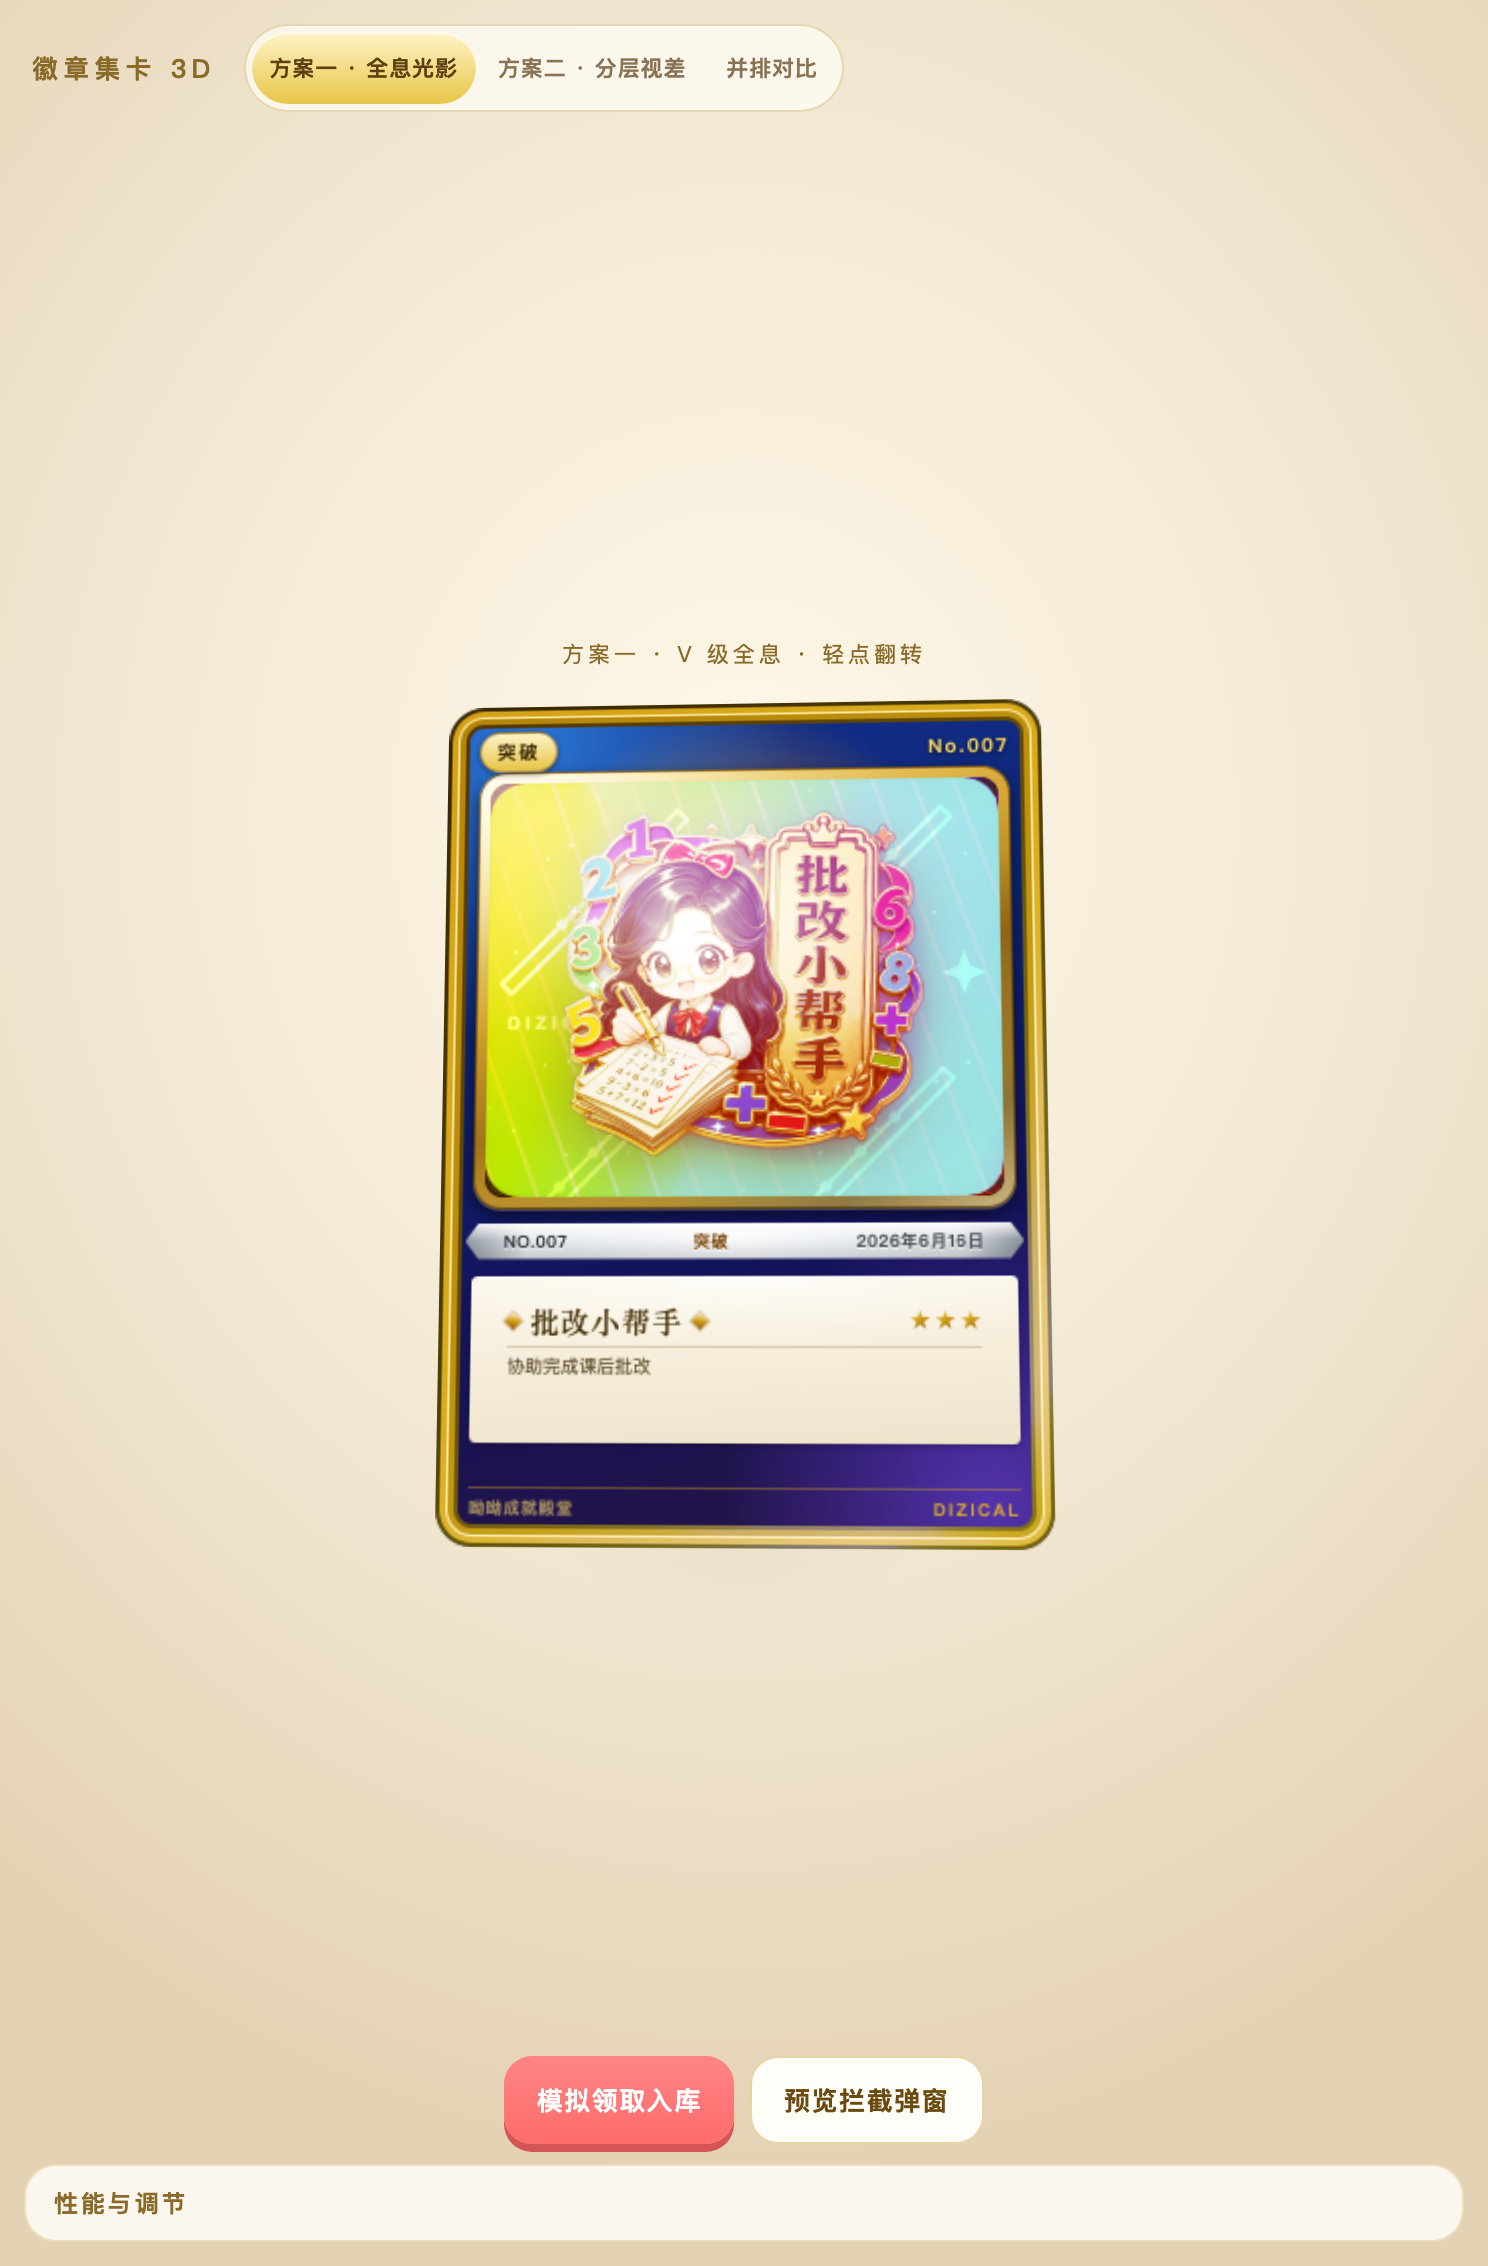
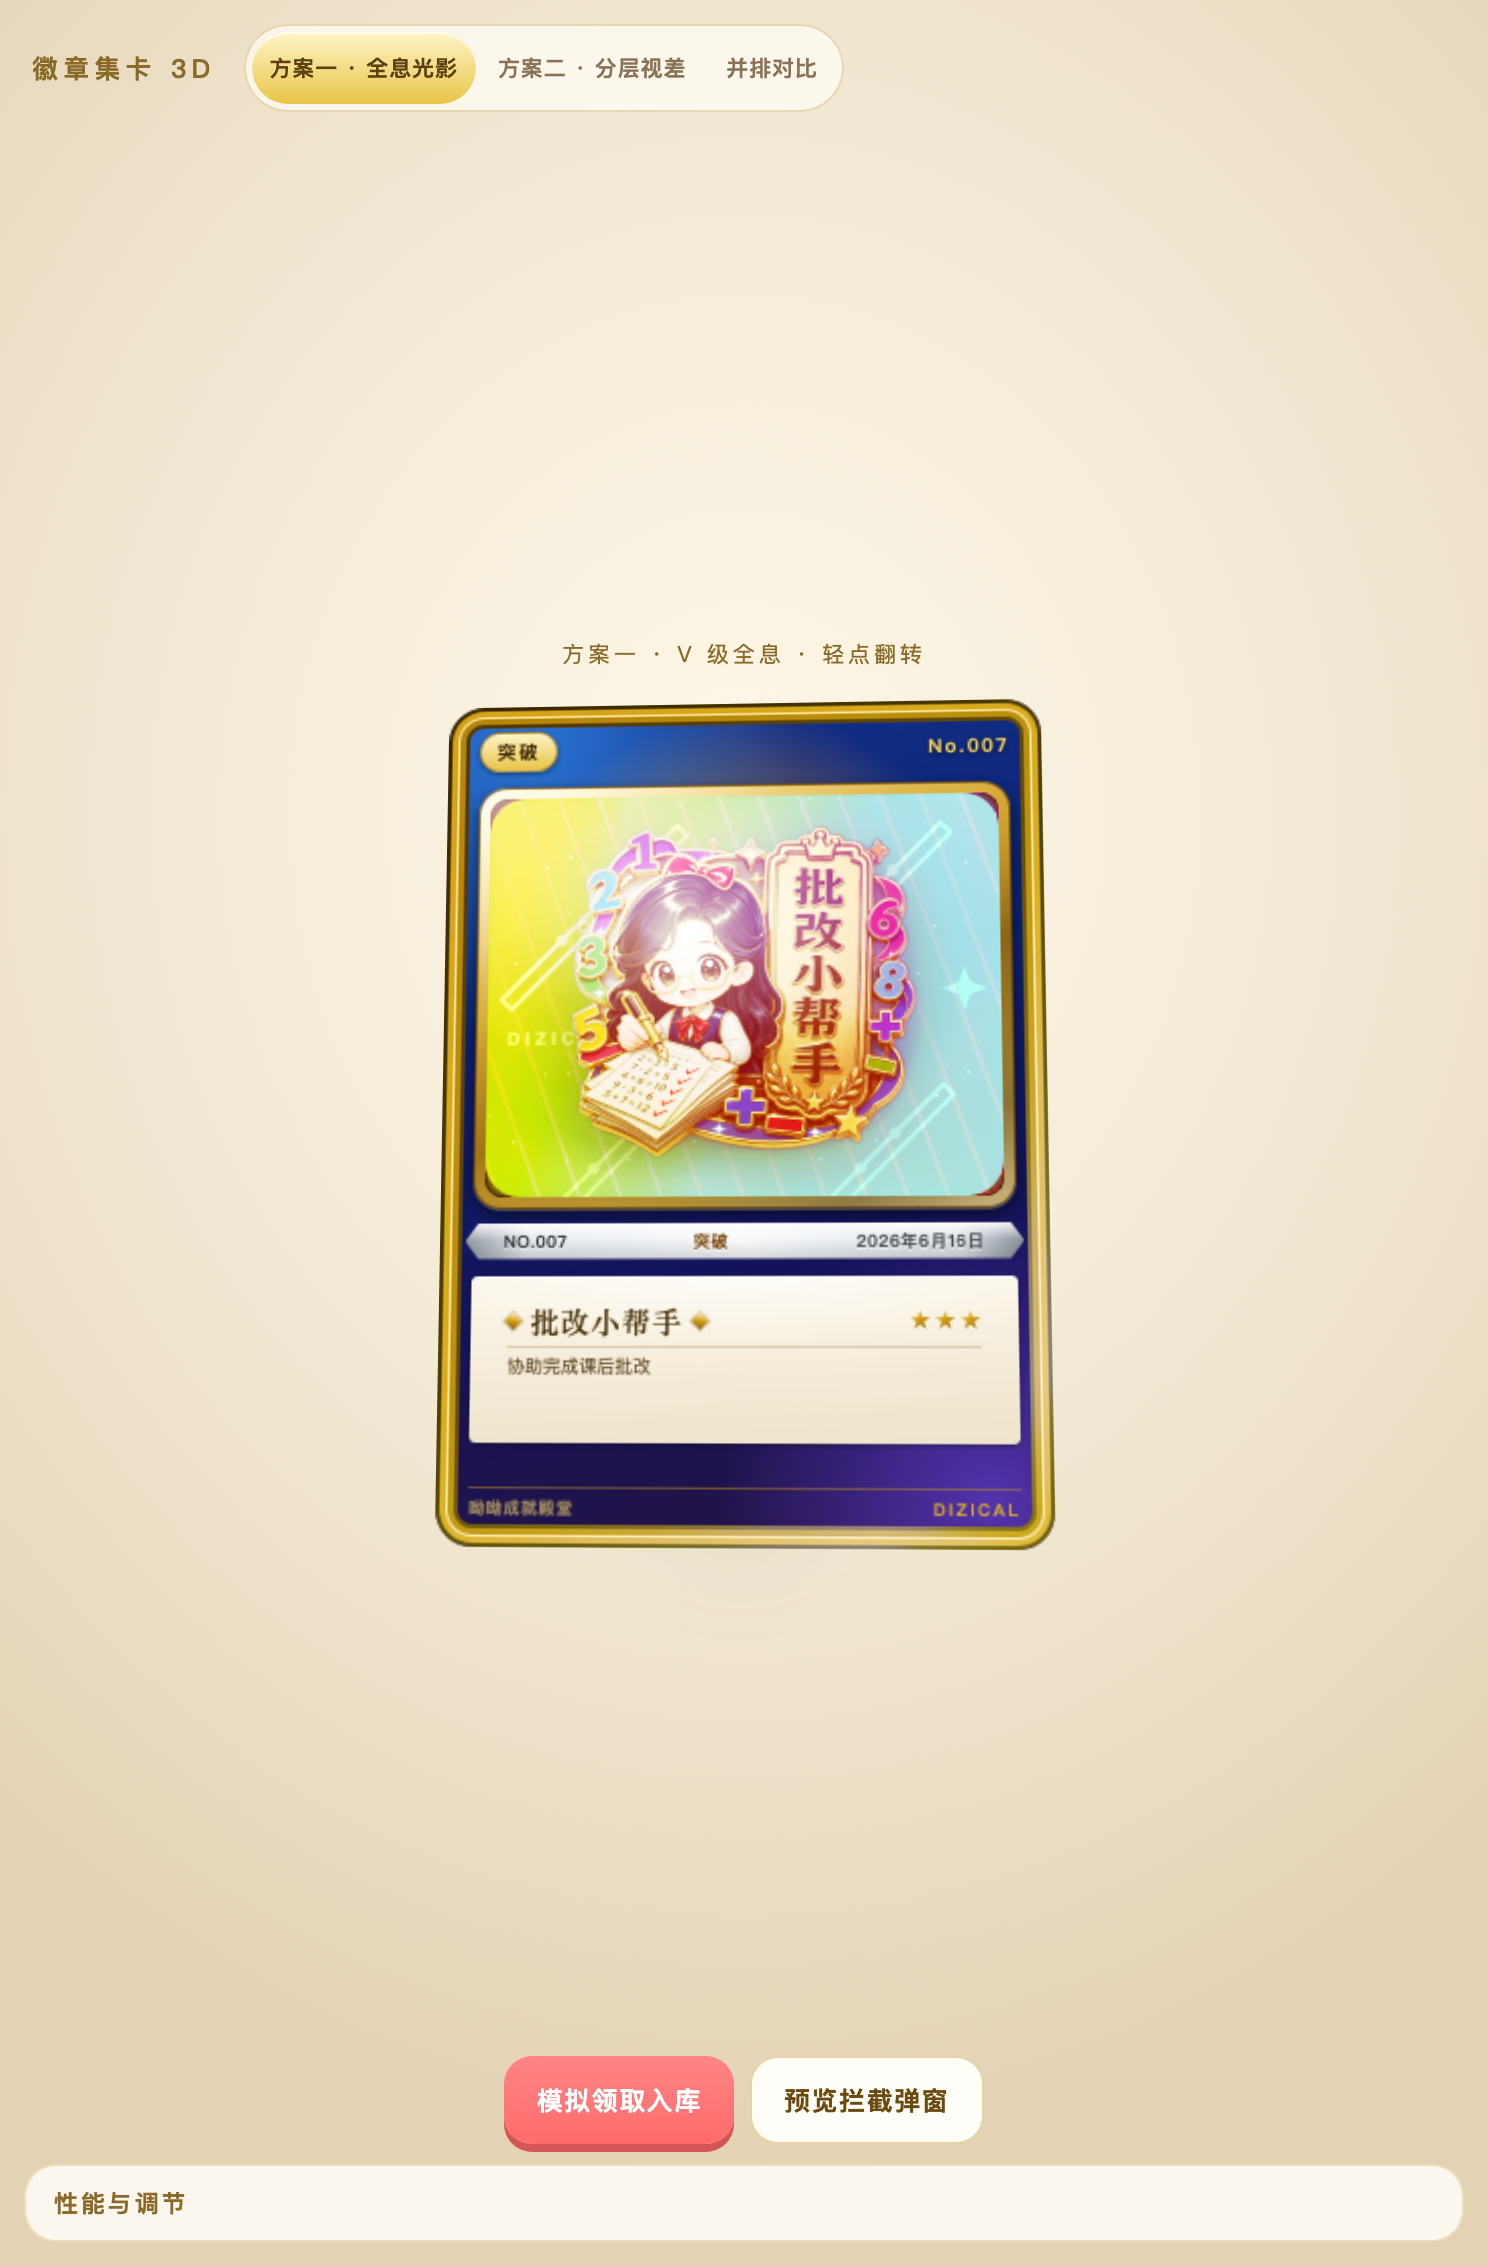
fix(badges): 光斑滑出金框不再压深色 + holo-head 与金框留 6px 间隙
dad 2026-09-12 反馈两条:
1) cursor 往下划出 ccg-art-frame 时背景镭射出现深色重叠
   根因: .ccg-foil-glare 是 overlay 径向渐变, 末端色标是深色;
   radial-gradient 椭圆之外的区域延续最后一个色标 → 光斑跑到框外后整片深色铺满窗口.
   修法: 末端色标回到透明 + --aw-x/--aw-y 钳制范围 -80..180 → -10..110.
   实测: 窗口亮度 186.7→101.5 (掉 46%) 变成 192.8→182.4 (仅 -5%), 色带均匀无暗斑.
2) .ccg-holo-head 与金框边框相碰
   实测 holo-head.bottom → art-frame.top = -2.2/-1.3/-1.4px (三端皆负).
   修法: --art-t 8%→9.9%, --art-h 53%→51.1% (框底仍 61% → 下方区块零位移).
   实测: 间隙 -2.2 → +6.1px (mac) / -1.3 → +6.7 (ipad 竖) / -1.4 → +6.0 (ipad 横).

Changed region(s): [[0.3091, 0.3398, 0.6801, 0.5252]]

diff --git a/src/kid_app/static/css/badge-ccg.css b/src/kid_app/static/css/badge-ccg.css
@@ -279,9 +279,12 @@
     hsla(0, 0%, 100%, 0.95) 0%,
     hsla(0, 0%, 100%, 0.62) 20%,
     hsla(0, 0%, 100%, 0.14) 46%,
-    hsla(0, 0%, 0%, 0.26) 76%,
-    hsla(0, 0%, 0%, 0.42) 100%
+    hsla(0, 0%, 0%, 0.24) 74%,
+    hsla(0, 0%, 0%, 0.30) 88%,
+    hsla(0, 0%, 0%, 0) 100%
   );
+  /* 末端必须回到透明 (dad 2026-09-12): radial-gradient 椭圆之外的区域会延续最后一个色标,
+     若末端是深色, 光斑滑出金框后整片深色铺满窗口 → "背景镭射出现深色重叠". */
 }
 
 /* ── 表层主光: screen 叠加, 真正把暗底照亮 (overlay 在暗底上提不亮) ── */
@@ -392,8 +395,10 @@
 /* 上 2/3 = 金框框住主视觉; 下 1/3 = 银数据条 + 米色说明栏 + 页脚 */
 .ccg-stage {
   --art-l: 5.4%;
-  --art-t: 8%;
-  --art-h: 53%;
+  /* 画面与上方 holo-head 留出 ≥7px 间隙 (dad 2026-09-12: 实测曾 -2.2px 压在一起);
+     与下方 art-frame→info-bar 的 7.2px 节奏对齐. 框底仍在 61% → 下方区块完全不动 */
+  --art-t: 9.9%;
+  --art-h: 51.1%;
   --bar-t: 62.6%;
   --bar-h: 4.2%;
   --plate-t: 68.8%;

diff --git a/src/kid_app/static/js/badge-ccg.js b/src/kid_app/static/js/badge-ccg.js
@@ -56,8 +56,10 @@
     el.style.setProperty("--pointer-x", s.px + "%");
     el.style.setProperty("--pointer-y", s.py + "%");
     if (geo && geo.w > 0 && geo.h > 0) {
-      el.style.setProperty("--aw-x", clamp((((s.px / 100) * geo.cw) - geo.l) / geo.w * 100, -80, 180) + "%");
-      el.style.setProperty("--aw-y", clamp((((s.py / 100) * geo.ch) - geo.t) / geo.h * 100, -80, 180) + "%");
+      /* 光斑允许跑出金框一点点 (边沿自然衰减), 但不能跑到框外很远:
+         跑到框外时椭圆渐变的暗尾会摊满窗口 → 深色重叠 (dad 2026-09-12) */
+      el.style.setProperty("--aw-x", clamp((((s.px / 100) * geo.cw) - geo.l) / geo.w * 100, -10, 110) + "%");
+      el.style.setProperty("--aw-y", clamp((((s.py / 100) * geo.ch) - geo.t) / geo.h * 100, -10, 110) + "%");
     }
     el.style.setProperty("--rotate-x", s.rx + "deg");
     el.style.setProperty("--rotate-y", s.ry + "deg");
